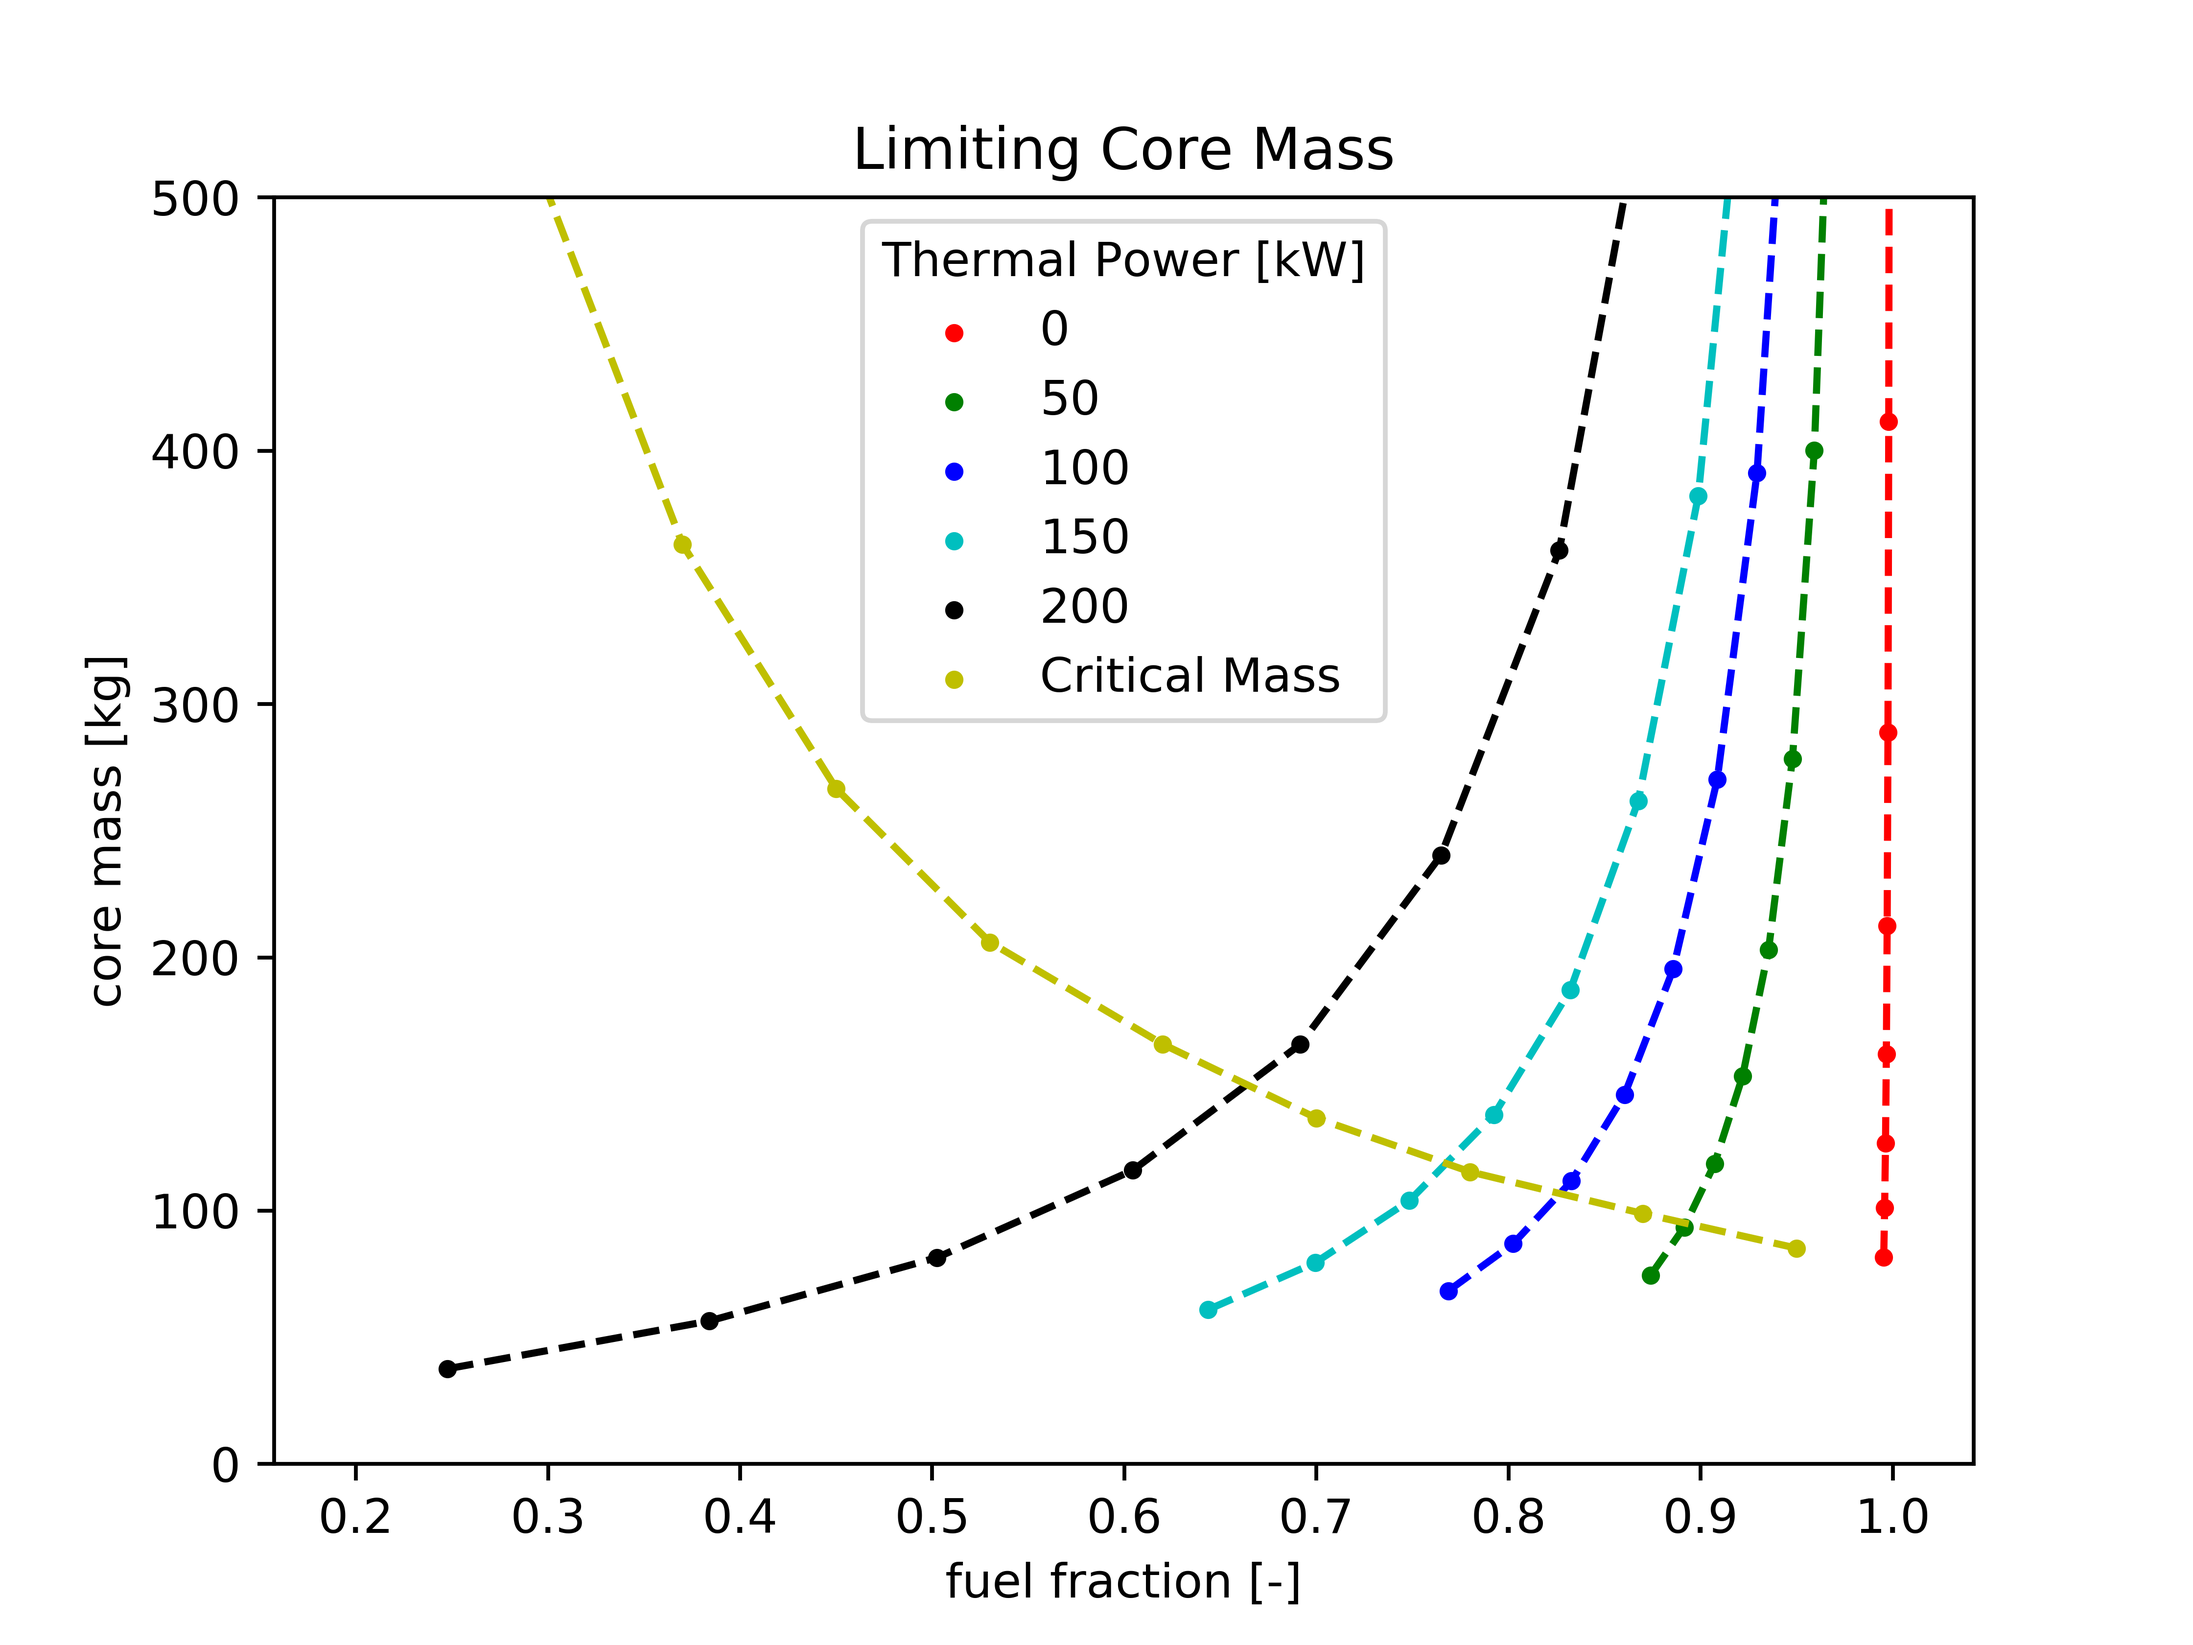
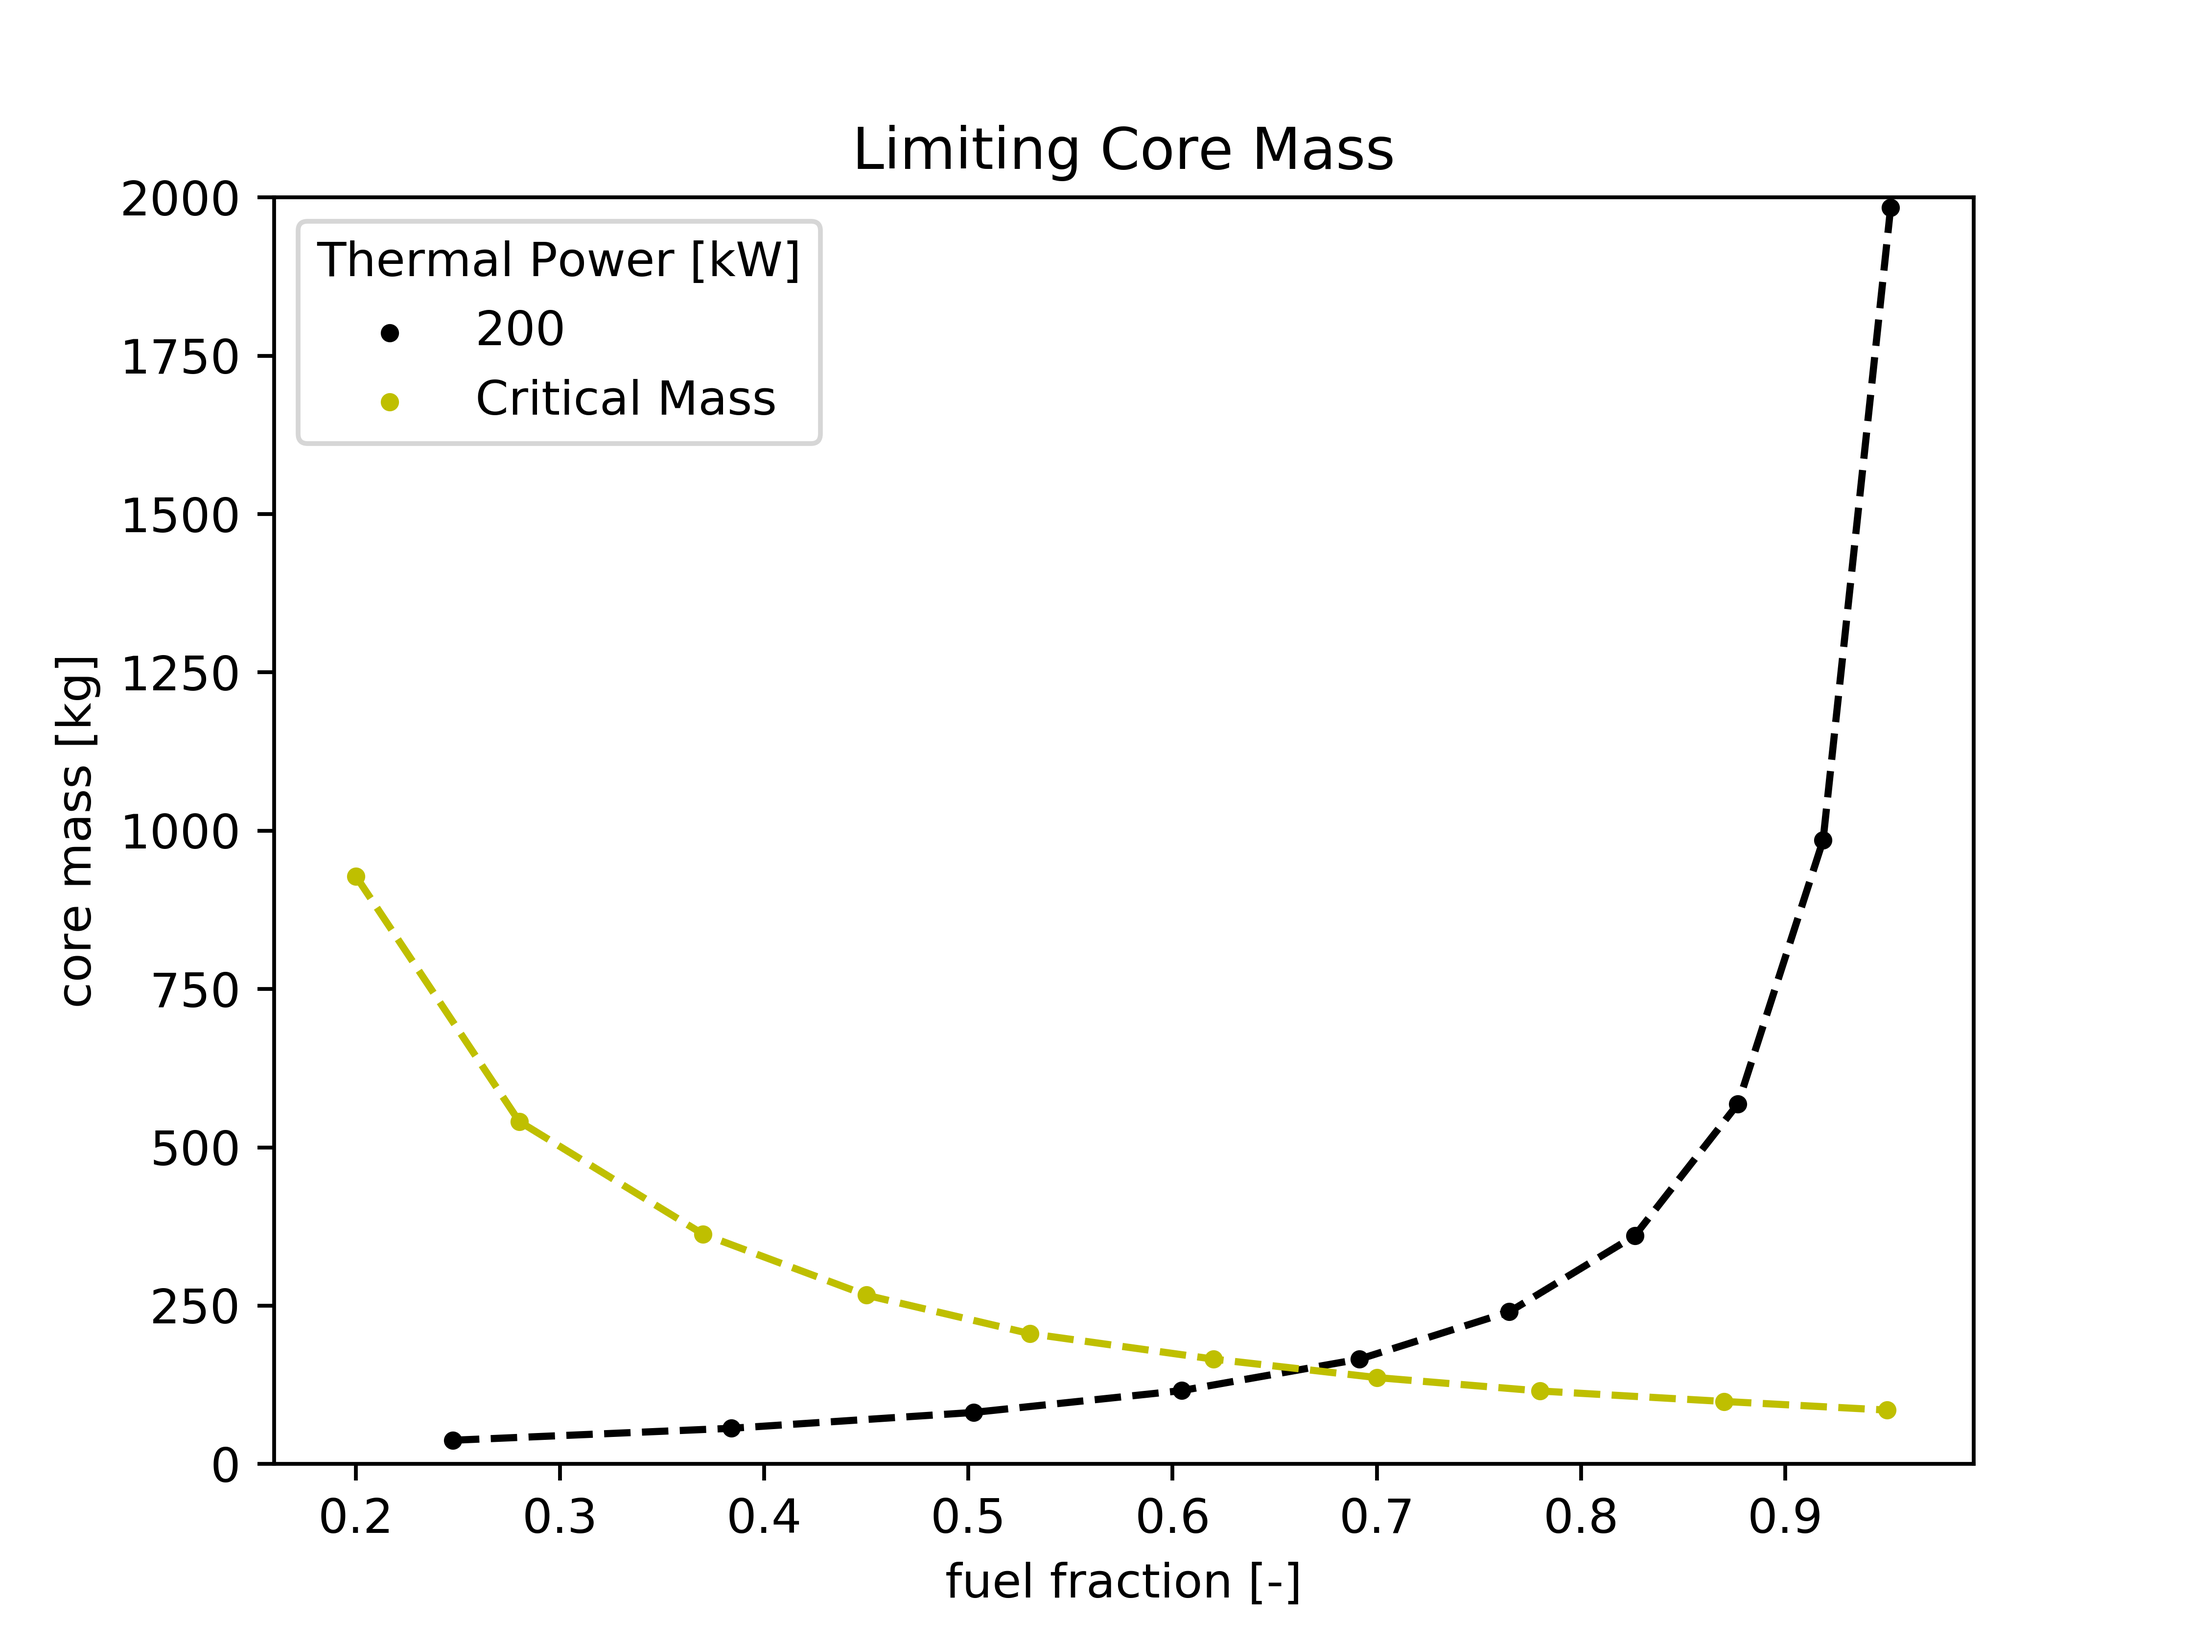
some quation edits

diff --git a/document/chapters/05-mass_model.tex b/document/chapters/05-mass_model.tex
@@ -134,6 +134,13 @@ number of channels (N).
     A_{conv} = 2\cdot r_{channel}\cdot \pi\cdot r_{core}\cdot AR\cdot N
 \end{equation}
 
+The conduction area was set (conservatively) to be the convection surface area.
+
+\begin{equation}
+    A_{cond} = A_{conv}
+\end{equation}
+
+
 The length over diameter was derived from the channel radius and core length.
 
 \begin{equation}
@@ -218,11 +225,11 @@ Resistance to conduction in the fuel was approximated as plane wall conduction.
 \end{equation}
 
 \begin{equation}
-    R_{clad} = log(1+\frac{t_{clad}}{r_{channel}})
+    R_{clad} = \frac{ln(1+\frac{t_{clad}}{r_{channel}})}{k_{clad}A_{conv}}
 \end{equation}
 
 \begin{equation}
-    R_{conv} = \frac{1}{2\cdot r_{channel}\cdot AR\cdot r_{core} \cdot \pi\cdot N}
+    R_{conv} = \frac{1}{\bar{h}A_{conv}}
 \end{equation}
 
 The maximum heat transfer rate at the fuel centerline was derived from the

diff --git a/plots/min_mass_curves/plot_min_mass.py b/plots/min_mass_curves/plot_min_mass.py
@@ -40,15 +40,19 @@ cr_data = load_data_crit('crit_mass.txt')
 
 
 fig = plt.figure()
-colors = ['r', 'g', 'b', 'c', 'k']
-for i, Q in enumerate(sorted(th_data.keys())):
+colors = ['k', 'g', 'b', 'c', 'r']
+
+y1 = cr_data['mass']
+
+for i, Q in enumerate([sorted(th_data.keys())[-1]]):
     dat = th_data[Q]
     plt.scatter(dat['frac'], dat['mass'], label=str(int(Q)), s=8, c=colors[i])
     plt.plot(dat['frac'], dat['mass'], c=colors[i], linestyle='--')
+    y2 = dat['mass']
 
 plt.scatter(cr_data['frac'], cr_data['mass'], s=8, c='y', label='Critical Mass')
 plt.plot(cr_data['frac'], cr_data['mass'], c='y', linestyle='--')
-plt.ylim((0, 500))
+plt.ylim((0, 2000))
 plt.xlabel('fuel fraction [-]')
 plt.ylabel('core mass [kg]')
 plt.title('Limiting Core Mass')
